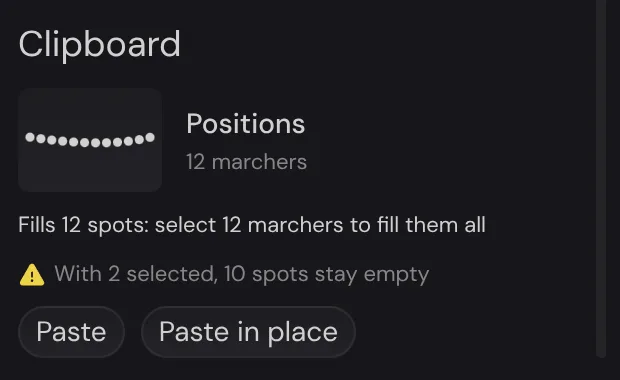
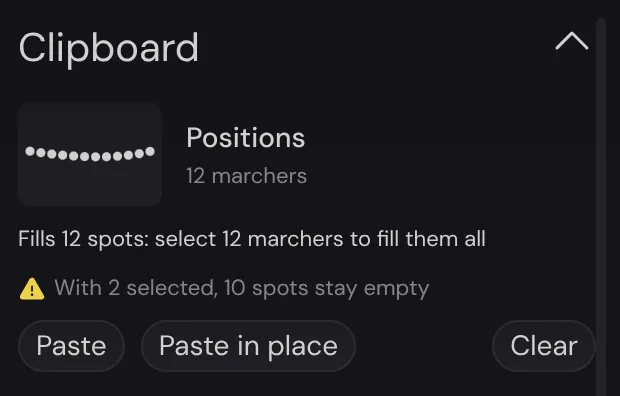
docs(shapes): the Clipboard card at the top, folding and Clear in the guide

diff --git a/lab/copy-paste/experiment.md b/lab/copy-paste/experiment.md
@@ -32,6 +32,8 @@ marchers you have selected into the copied formation.
   same number, then onto fewer, then onto more. With fewer, the nearest
   spots are used. With more, the nearest marchers take the spots and the
   rest stay where they are.
+- The Clipboard card is at the top of the inspector. Select its heading to
+  fold it away, and **Clear** to empty the clipboard.
 - Copy a box, then pick **Positions** under **Paste as** on the Clipboard
   card and paste onto fewer marchers: they take some of the box's exact
   spots instead of a smaller box, and stay plain marchers.
